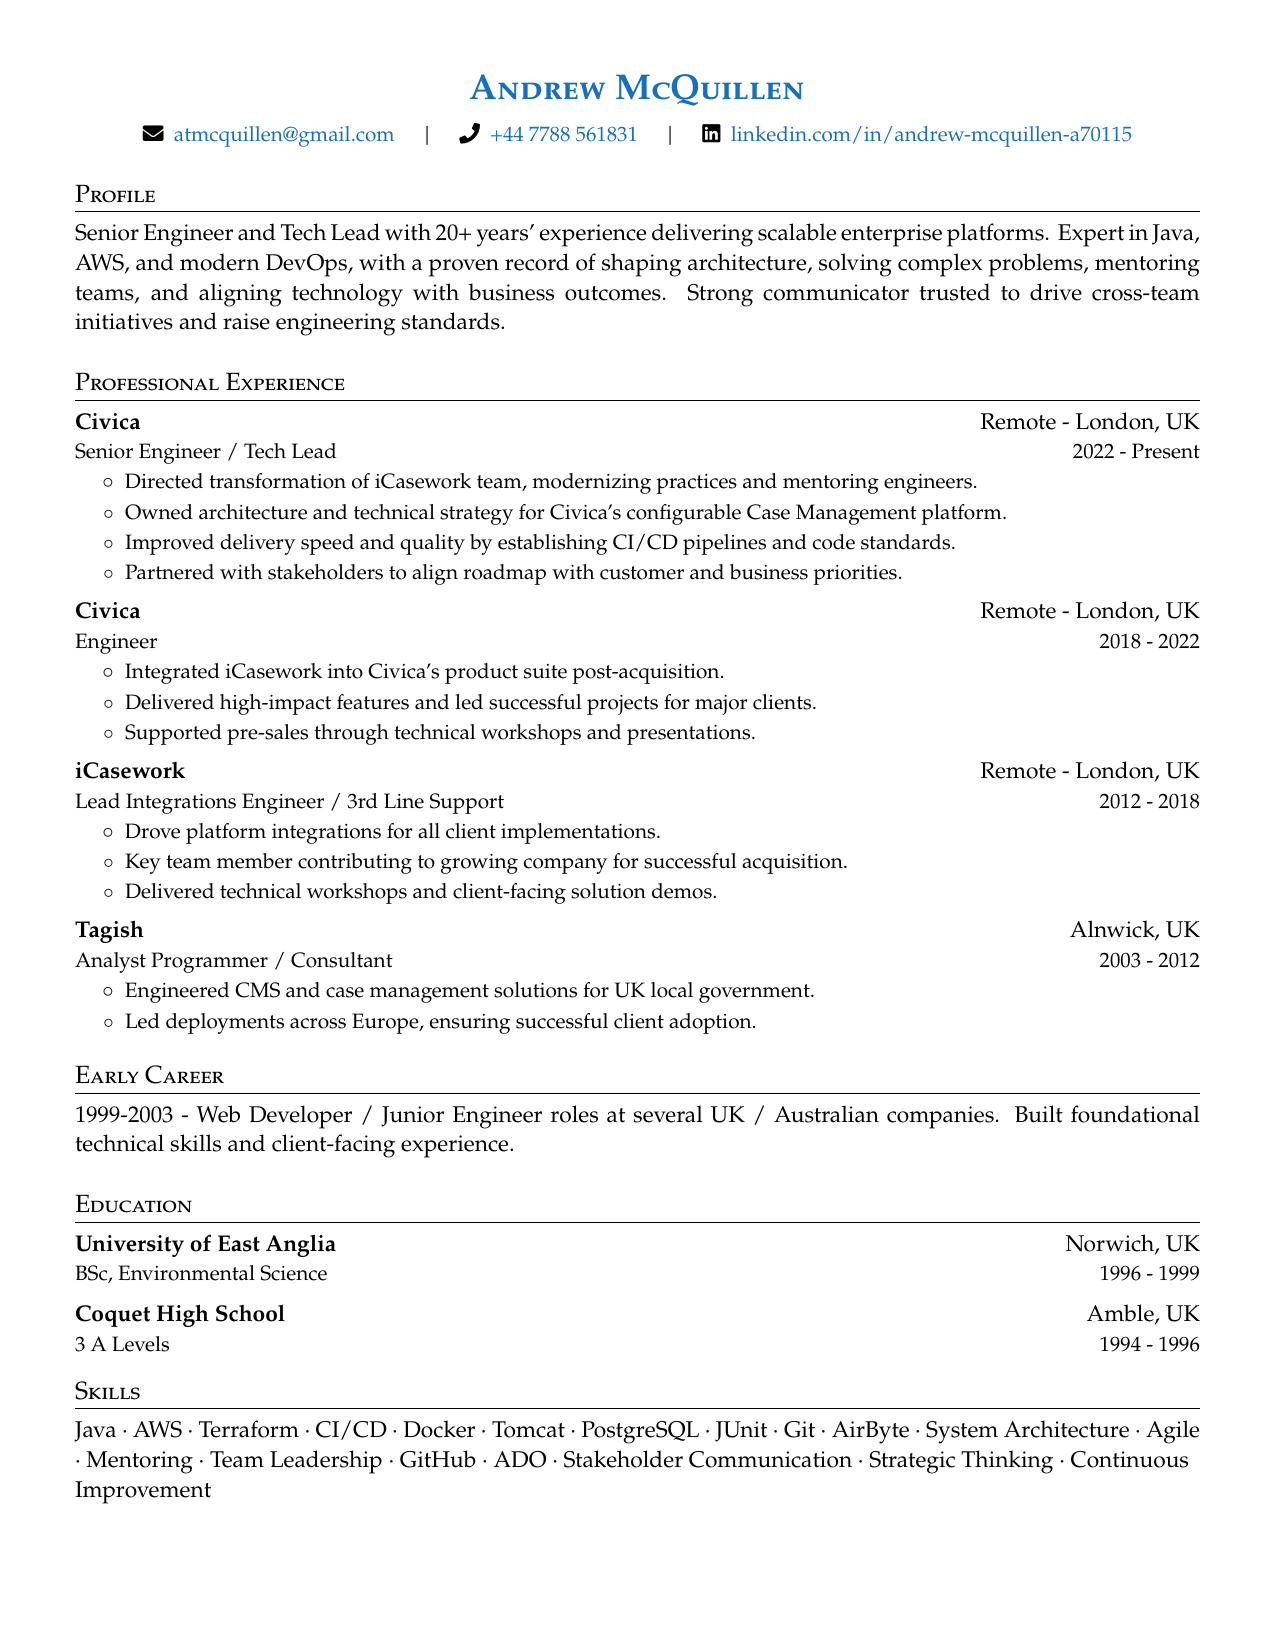
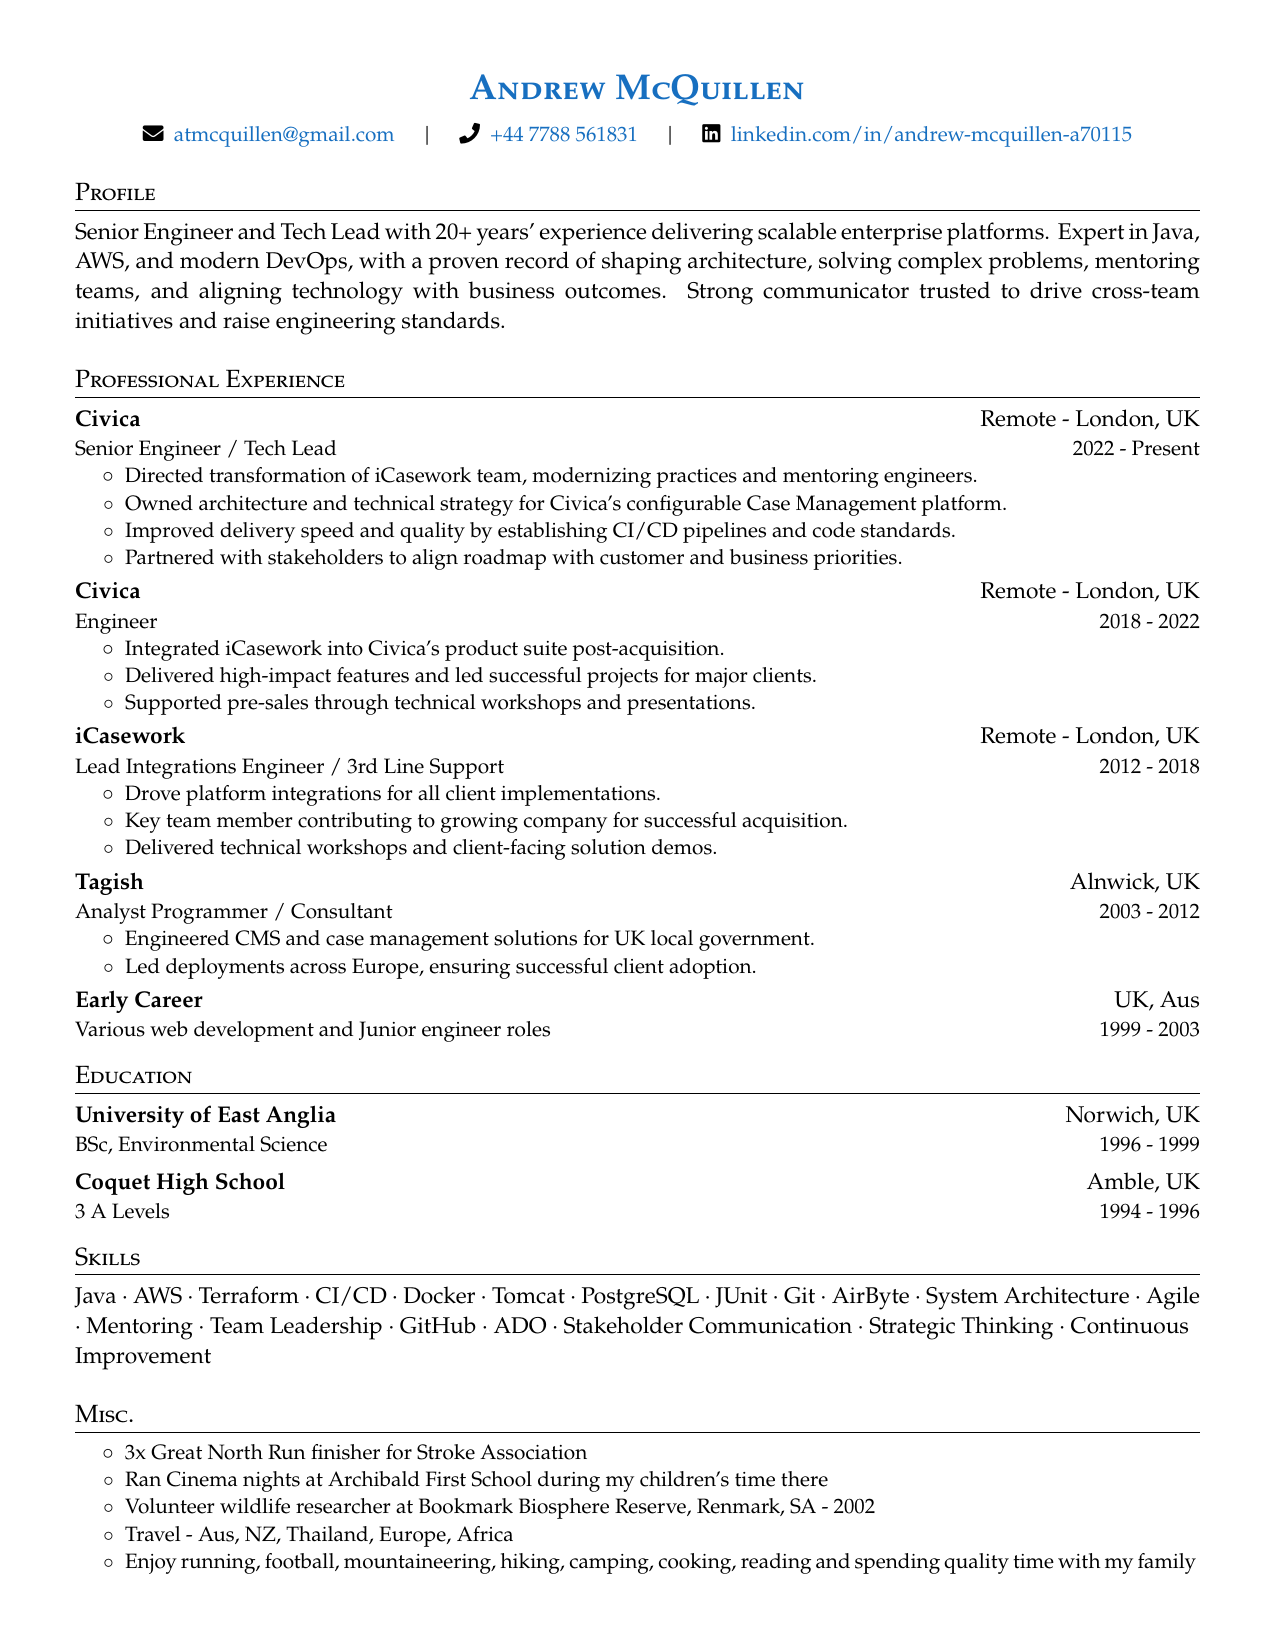
deploy: a53a1a4c2c2a30d0ebf283d25c7d8f41f64c5a77

diff --git a/main.tex b/main.tex
@@ -144,13 +144,11 @@
     \cvitem{Engineered CMS and case management solutions for UK local government.}
     \cvitem{Led deployments across Europe, ensuring successful client adoption.}
   \cvitemend
-\cvheadingend
 
-\section{Early Career}
-\begin{justify}
-1999-2003 - Web Developer / Junior Engineer roles at several UK / Australian companies.
-Built foundational technical skills and client-facing experience.
-\end{justify}
+  \cvheading
+    {Early Career}{UK, Aus}
+    {Various web development and Junior engineer roles}{1999 - 2003}
+\cvheadingend
 
 \section{Education}
 \cvheadingstart
